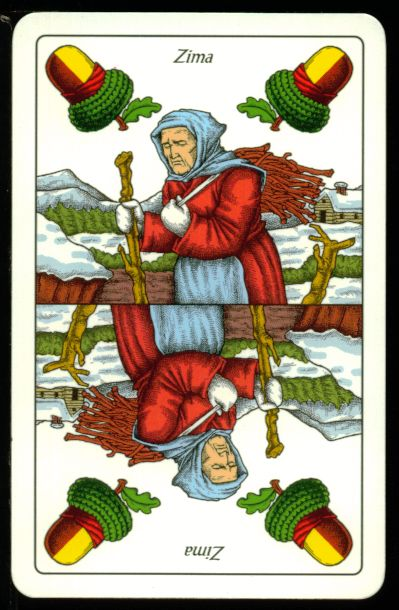
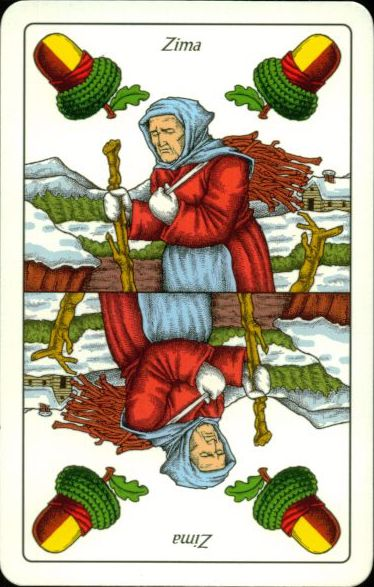
wip

diff --git a/karte/Scene/GameScene.swift b/karte/Scene/GameScene.swift
@@ -1,0 +1,33 @@
+//
+//  GameScene.swift
+//  karte
+//
+//  Created by Kresimir Prcela on 12/05/2018.
+//  Copyright © 2018 prcela. All rights reserved.
+//
+
+import Foundation
+import SpriteKit
+
+class GameScene: SKScene {
+    
+    
+    override func didMove(to view: SKView) {
+        
+        let cardNames = ["žir_kec.jpg","žir_vii.jpg"]
+        
+        for (idx,cardName) in cardNames.enumerated() {
+            let cardW = size.width * 0.3
+            let cardRatio = CGFloat(374)/CGFloat(587)
+            let cardNode = SKShapeNode(rectOf: CGSize(width: cardW, height: cardW/cardRatio), cornerRadius: cardW*0.08)
+            cardNode.fillColor = .white
+            cardNode.fillTexture = SKTexture(imageNamed: cardName)
+            cardNode.strokeColor = .black
+            cardNode.zPosition = 0.01*CGFloat(idx)
+            cardNode.position = CGPoint(x: CGFloat(idx)*40, y: CGFloat(idx)*10)
+            addChild(cardNode)
+        }
+        
+        
+    }
+}

diff --git a/karte/ViewControllers/MenuViewController.swift b/karte/ViewControllers/MenuViewController.swift
@@ -31,5 +31,8 @@ class MenuViewController: UIViewController {
         onlinePlayersCtLbl?.text = String(format: lstr("Online players count"), Room.shared.playersInfo.count)
     }
 
+    @IBAction func onLeaderboard(_ sender: Any) {
+        MainViewController.shared?.openGame()
+    }
     
 }
